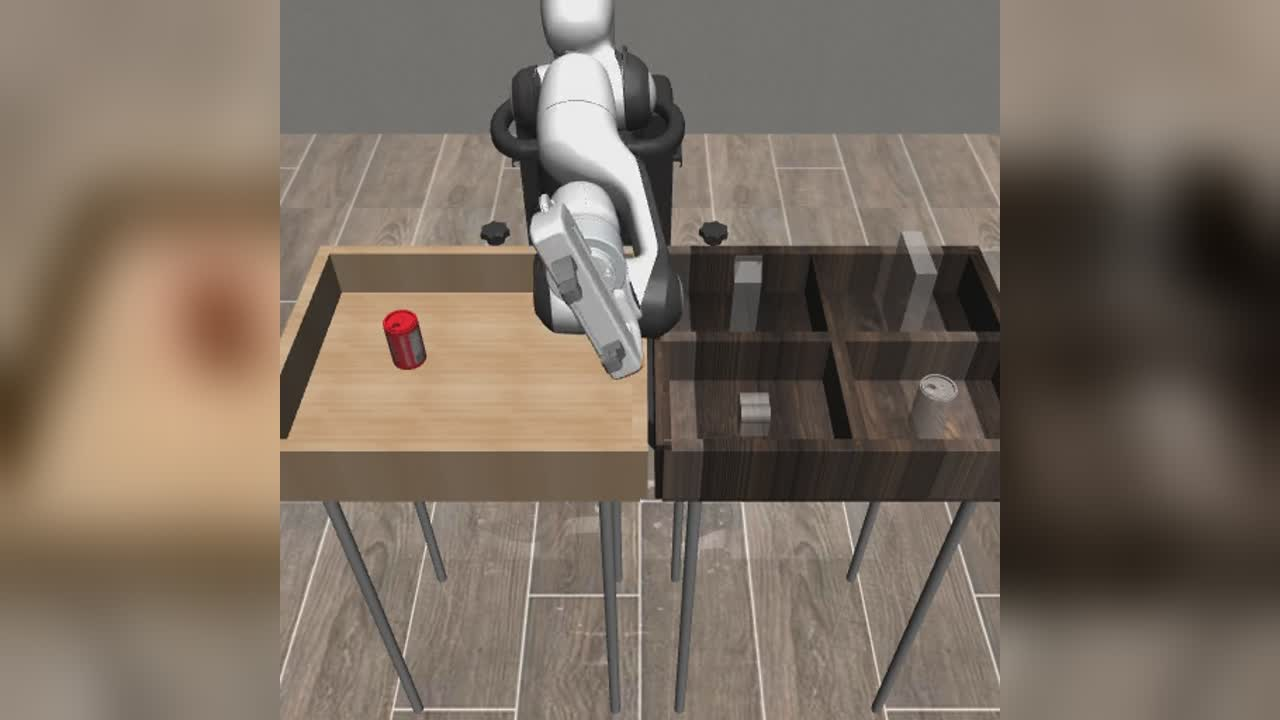
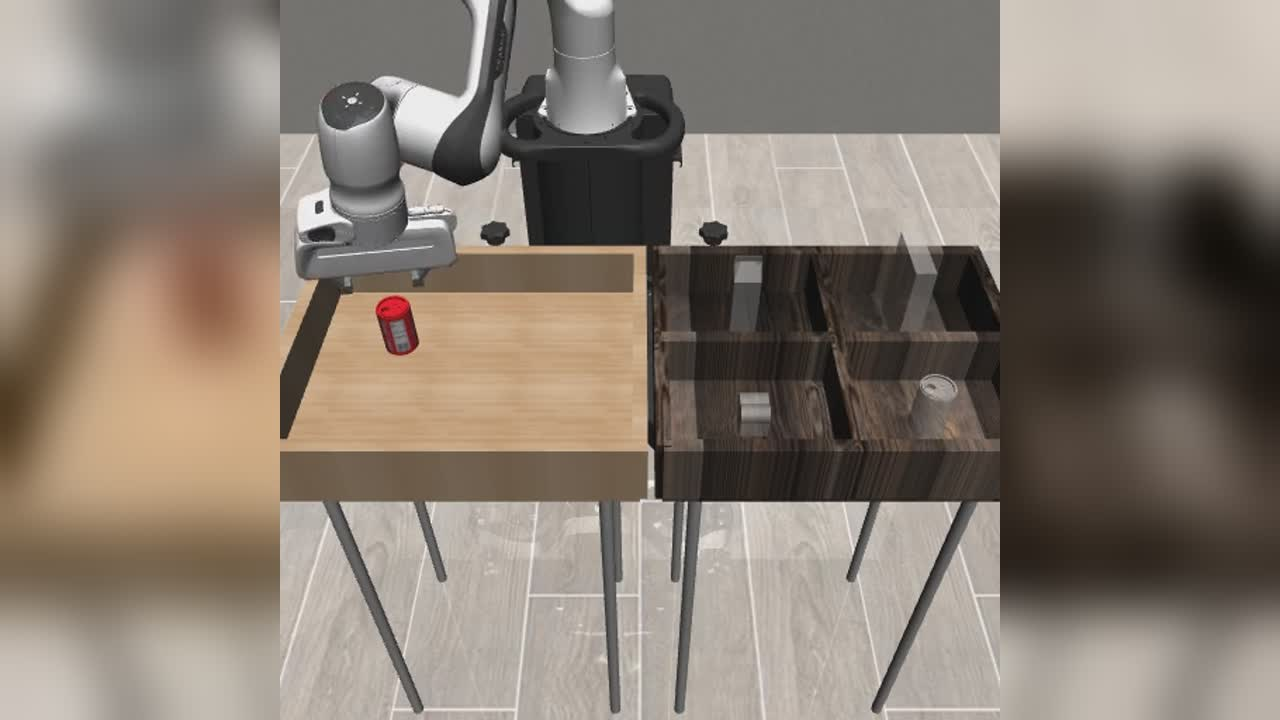
Flow Matching page: real CFM rollouts and table.md benchmark data
- Five FM rollout videos from the flow-matching branch (transport as
  hero, 2x2 grid for lift/can/square/tool hang); drop the stand-in
  Diffusion Policy clip and rebuild the card thumb from the can rollout
- Results rewritten from table.md: full success-rate table incl. DP
  head-to-head (FM >= DP on every task tested) and square-difficulty
  note, NFE speed ladder with 1-step 3.1 ms mode, training-time note

diff --git a/_projects/flow-matching-policies.md b/_projects/flow-matching-policies.md
@@ -1,7 +1,7 @@
 ---
 layout: page
 title: Flow Matching Policies
-description: Conditional Flow Matching visuomotor policies in robomimic — 11× faster inference than Diffusion Policy at matched task success.
+description: Conditional Flow Matching visuomotor policies in robomimic — beats Diffusion Policy head-to-head, with a 94× faster 1-step inference mode.
 img: assets/img/projects/cfm_thumb.jpg
 importance: 5
 category: projects
@@ -9,34 +9,74 @@ category: projects
 
 <div class="row justify-content-center">
     <div class="col-sm-8 mt-3 mb-3">
-        {% include video.liquid path="assets/video/projects/diffusion_policy_rollout.mp4" class="img-fluid rounded z-depth-1" controls=true muted=true %}
+        {% include video.liquid path="assets/video/projects/fm_transport_rollout.mp4" class="img-fluid rounded z-depth-1" controls=true muted=true %}
     </div>
 </div>
 <div class="caption">
-    A Diffusion Policy rollout on the robosuite pick-and-place task from my robomimic training stack — the baseline architecture that CFM accelerates.
+    Flow Matching policy solving two-arm transport — 84% success vs. 72% for Diffusion Policy and 71% for BC-RNN on the same benchmark.
 </div>
 
 Diffusion Policy is the current workhorse for multimodal visuomotor imitation, but it pays for its expressiveness at deployment: **100 DDPM denoising steps for every action chunk**. This project replaces the denoising loop with **Conditional Flow Matching (CFM)** — implemented from scratch in [robomimic](https://github.com/souravselvaraj/robomimic/tree/flow-matching) — keeping the receding-horizon architecture identical and swapping only the generative core.
 
 ## The idea
 
-Instead of learning to reverse a noising process step by step, CFM learns a **velocity field of an ODE** that transports noise samples to action samples along (approximately) straight probability paths. Straight paths mean a cheap solver does the job: the learned field is integrated in just **10 Euler steps**, versus 100 network evaluations for DDPM.
+Instead of learning to reverse a noising process step by step, CFM learns a **velocity field of an ODE** that transports noise samples to action samples along (approximately) straight probability paths. Straight paths mean a cheap solver does the job — a few Euler steps, or even one.
 
-- Same 65M-parameter backbone as the Diffusion Policy baseline — the comparison isolates the generative objective.
-- Receding-horizon action chunking preserved, so the policy interface is unchanged.
-- Solver ablations: Euler vs. midpoint integration, 10–50 inference steps.
+## Experimental setup
 
-## Results
+- robomimic `ph` (proficient-human) `low_dim` datasets; success rate = fraction of **50 rollouts** that solve the task.
+- Flow Matching and Diffusion Policy share the **same 65M-parameter conditional U-Net backbone** — the comparison isolates the generative objective. BC-RNN is the robomimic reference.
+- FM default sampler: 10 Euler steps; ablations over 10/20/50 Euler and midpoint steps.
 
-**26.7 ms per action chunk** at inference — an **11× speedup** over the 100-step DDPM Diffusion Policy on identical hardware and architecture. Benchmarked on 5 robomimic tasks, 3 seeds × 50 rollouts each, matching or beating BC-RNN reference results on 4 of 5 tasks:
+## Success rates
 
-| Task              | CFM success rate      |
-| ----------------- | --------------------- |
-| lift              | **100%**              |
-| can               | **94%**               |
-| two-arm transport | **84%** (BC-RNN: 71%) |
-| tool_hang         | **64%**               |
+| Task      | Horizon | Flow Matching (CFM) | Diffusion Policy | BC-RNN (ref) |
+| --------- | :-----: | :-----------------: | :--------------: | :----------: |
+| Lift      |   400   |  **100%** (50/50)   |        —         |     100%     |
+| Can       |   400   |   **94%** (47/50)   |        —         |     100%     |
+| Square    |   400   |   **40%** (20/50)   |   36% (18/50)    |     84%      |
+| Transport |   700   |   **84%** (42/50)   |   72% (36/50)    |     71%      |
+| Tool Hang |   700   |   **64%** (32/50)   |        —         |     67%      |
 
-The takeaway: for visuomotor imitation, flow matching delivers diffusion-class multimodality at a fraction of the inference cost — which matters for real-time control loops.
+Head-to-head on the same backbone and protocol, **FM ≥ Diffusion Policy on every task tested** (Square 40% vs. 36%, Transport 84% vs. 72%; "—" = A/B not run for that task). Square is hard for *both* learned samplers at this training budget — solver and retraining ablations all cap near 40%, so it reflects task difficulty rather than a CFM weakness.
 
-Code: [github.com/souravselvaraj/robomimic — flow-matching branch](https://github.com/souravselvaraj/robomimic/tree/flow-matching)
+## Inference speed
+
+Identical 65M U-Net, RTX PRO 6000 (Blackwell), 100 trials:
+
+| Policy / sampler            | NFE | ms per action chunk | Speedup vs. DDPM-100 |
+| --------------------------- | :-: | :-----------------: | :------------------: |
+| Flow Matching — Euler 1     |  1  |       **3.1**       |        94.4×         |
+| Flow Matching — Euler 5     |  5  |        13.4         |        21.9×         |
+| Flow Matching — Euler 10 ★  | 10  |        26.7         |        11.0×         |
+| Flow Matching — midpoint 5  | 10  |        26.9         |        10.9×         |
+| Diffusion Policy — DDIM 10  | 10  |        28.9         |        10.2×         |
+| Diffusion Policy — DDPM 100 | 100 |        293.7        |   1.0× (baseline)    |
+
+★ = default used for the success-rate rollouts above.
+
+At matched compute (10 network evaluations) FM and DDIM are comparable on wall-clock — CFM's real advantages are **quality at few steps** and a viable **1-step mode (3.1 ms, 94× faster than DDPM-100)** that Diffusion Policy has no equivalent of. Training is slightly cheaper too (e.g., Transport: 1h26m for FM vs. 1h38m for DP at 2000 epochs on a single GPU).
+
+## Rollouts
+
+<div class="row justify-content-center">
+    <div class="col-sm-6 mt-3 mb-3">
+        {% include video.liquid path="assets/video/projects/fm_lift_rollout.mp4" class="img-fluid rounded z-depth-1" controls=true muted=true %}
+    </div>
+    <div class="col-sm-6 mt-3 mb-3">
+        {% include video.liquid path="assets/video/projects/fm_can_rollout.mp4" class="img-fluid rounded z-depth-1" controls=true muted=true %}
+    </div>
+</div>
+<div class="row justify-content-center">
+    <div class="col-sm-6 mt-3 mb-3">
+        {% include video.liquid path="assets/video/projects/fm_square_rollout.mp4" class="img-fluid rounded z-depth-1" controls=true muted=true %}
+    </div>
+    <div class="col-sm-6 mt-3 mb-3">
+        {% include video.liquid path="assets/video/projects/fm_toolhang_rollout.mp4" class="img-fluid rounded z-depth-1" controls=true muted=true %}
+    </div>
+</div>
+<div class="caption">
+    Flow Matching rollouts: lift and can (top), square and tool hang (bottom).
+</div>
+
+Code and full benchmark details: [flow-matching branch](https://github.com/souravselvaraj/robomimic/tree/flow-matching) · [table.md](https://github.com/souravselvaraj/robomimic/blob/flow-matching/table.md)